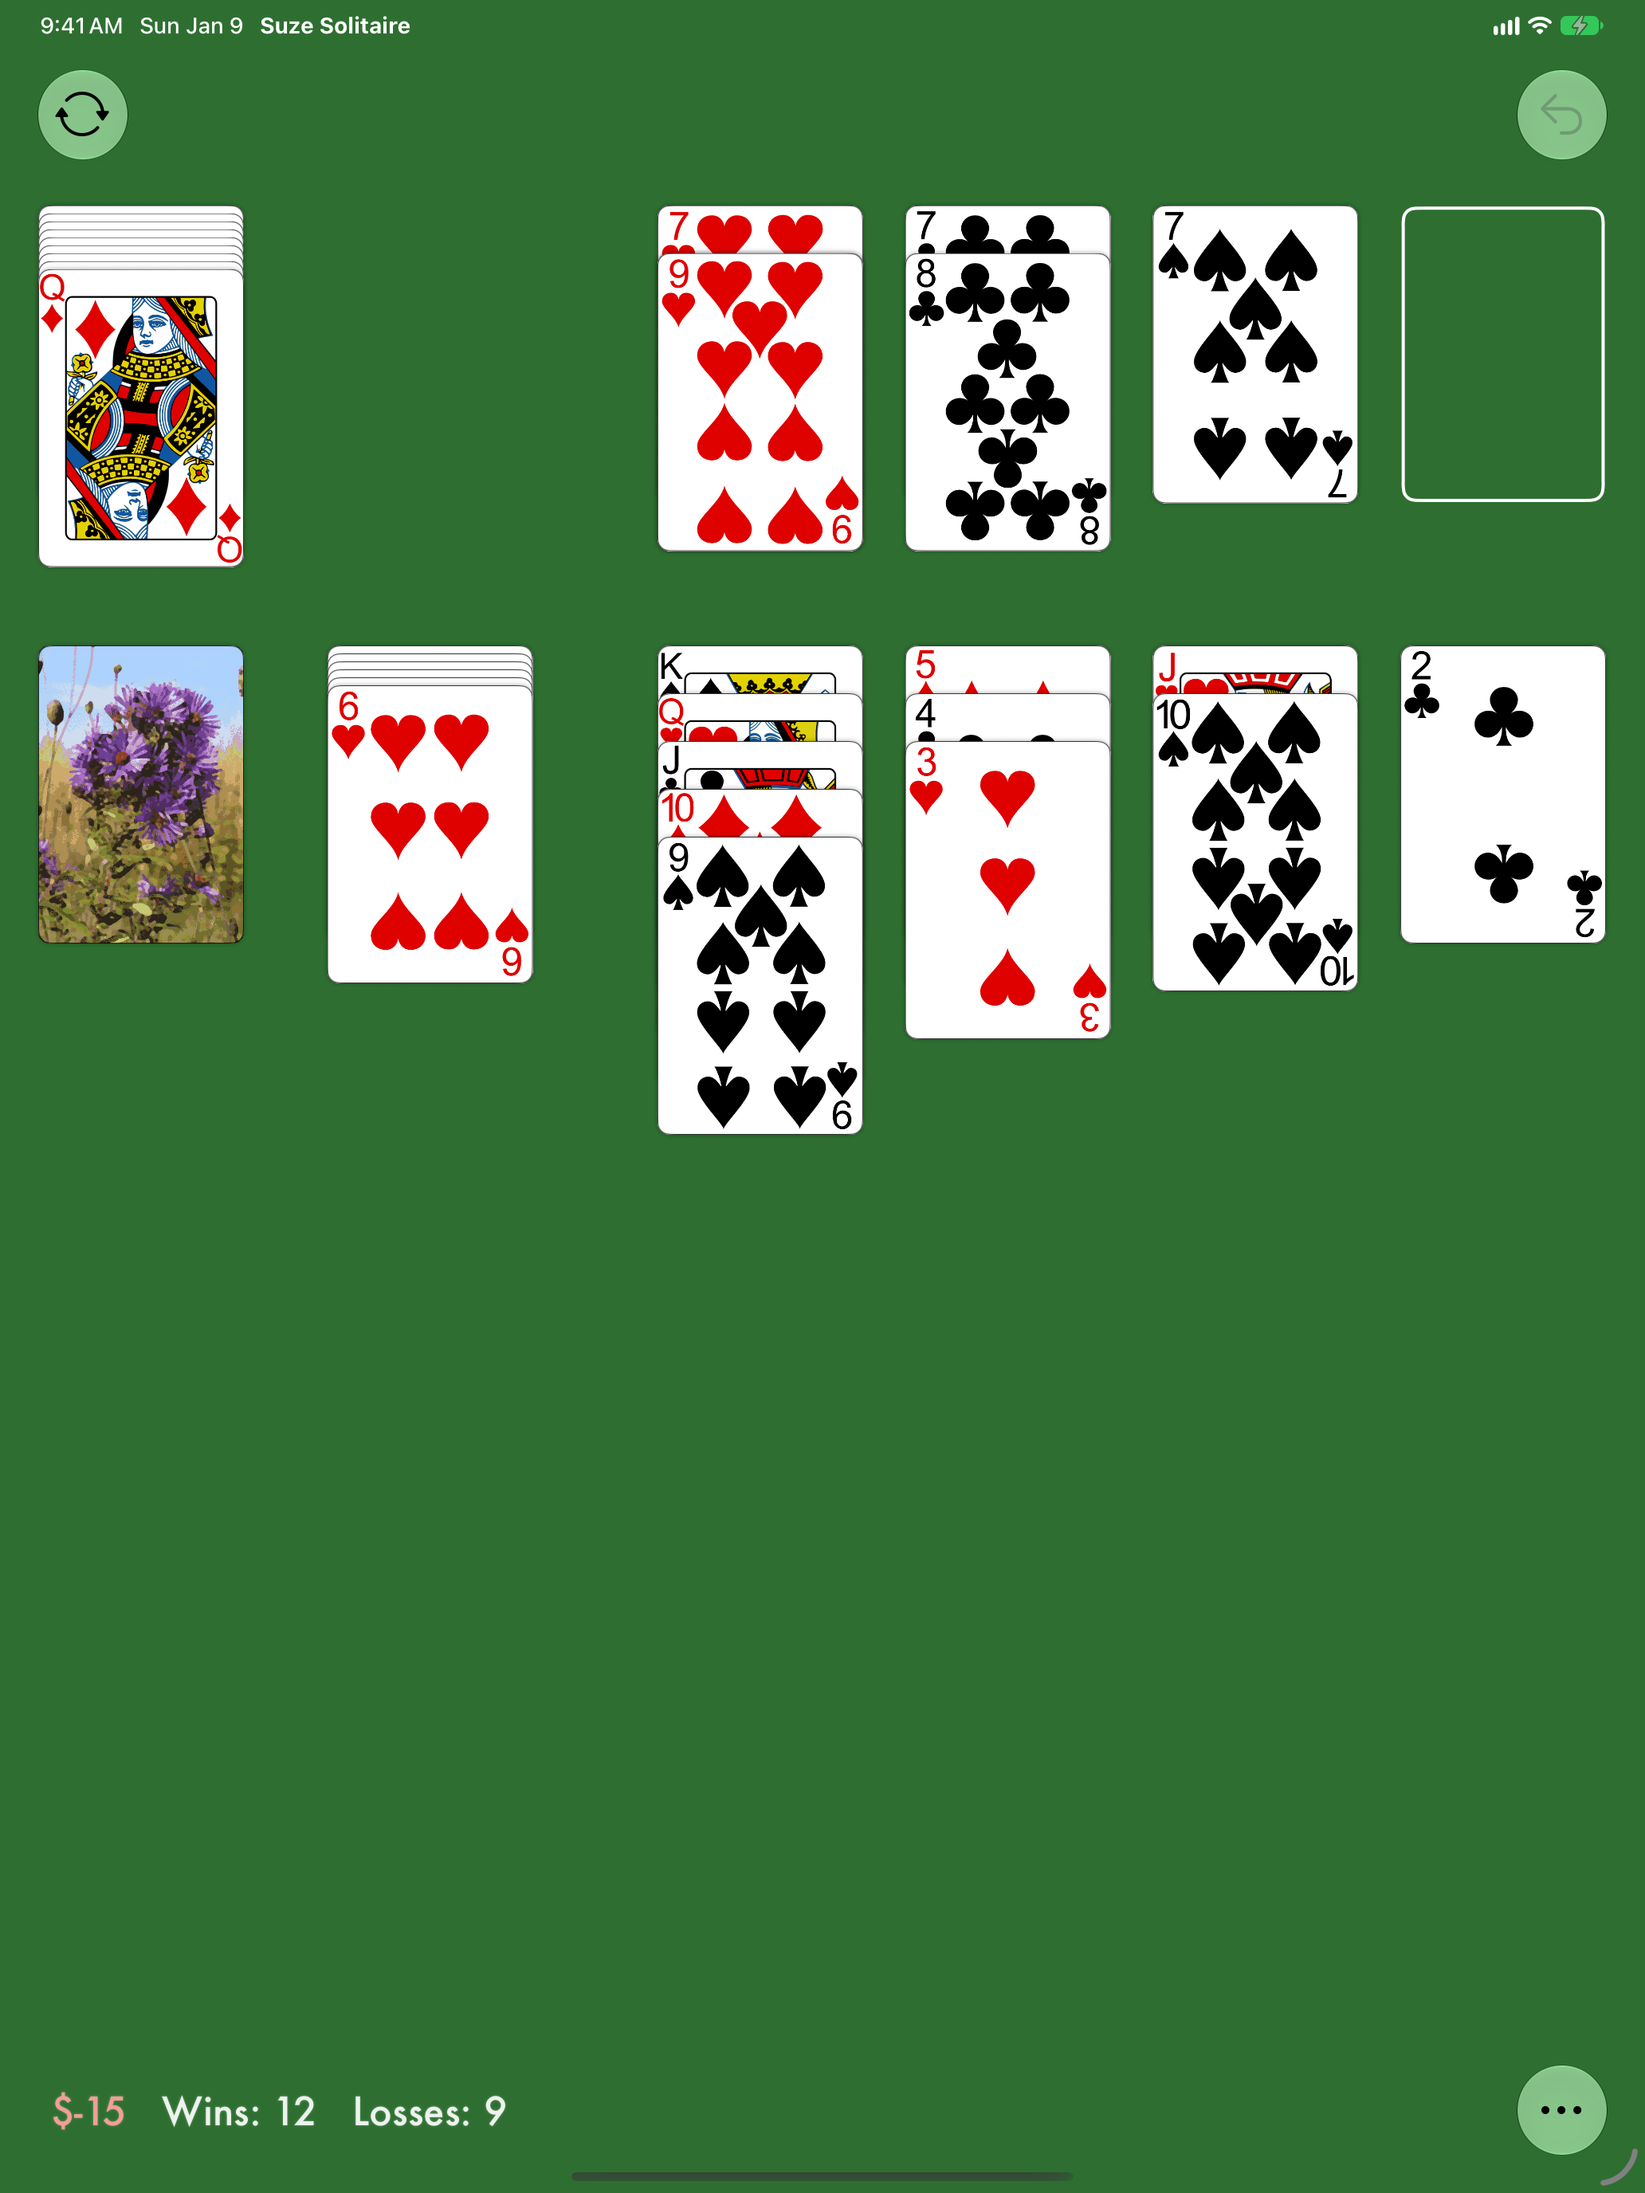
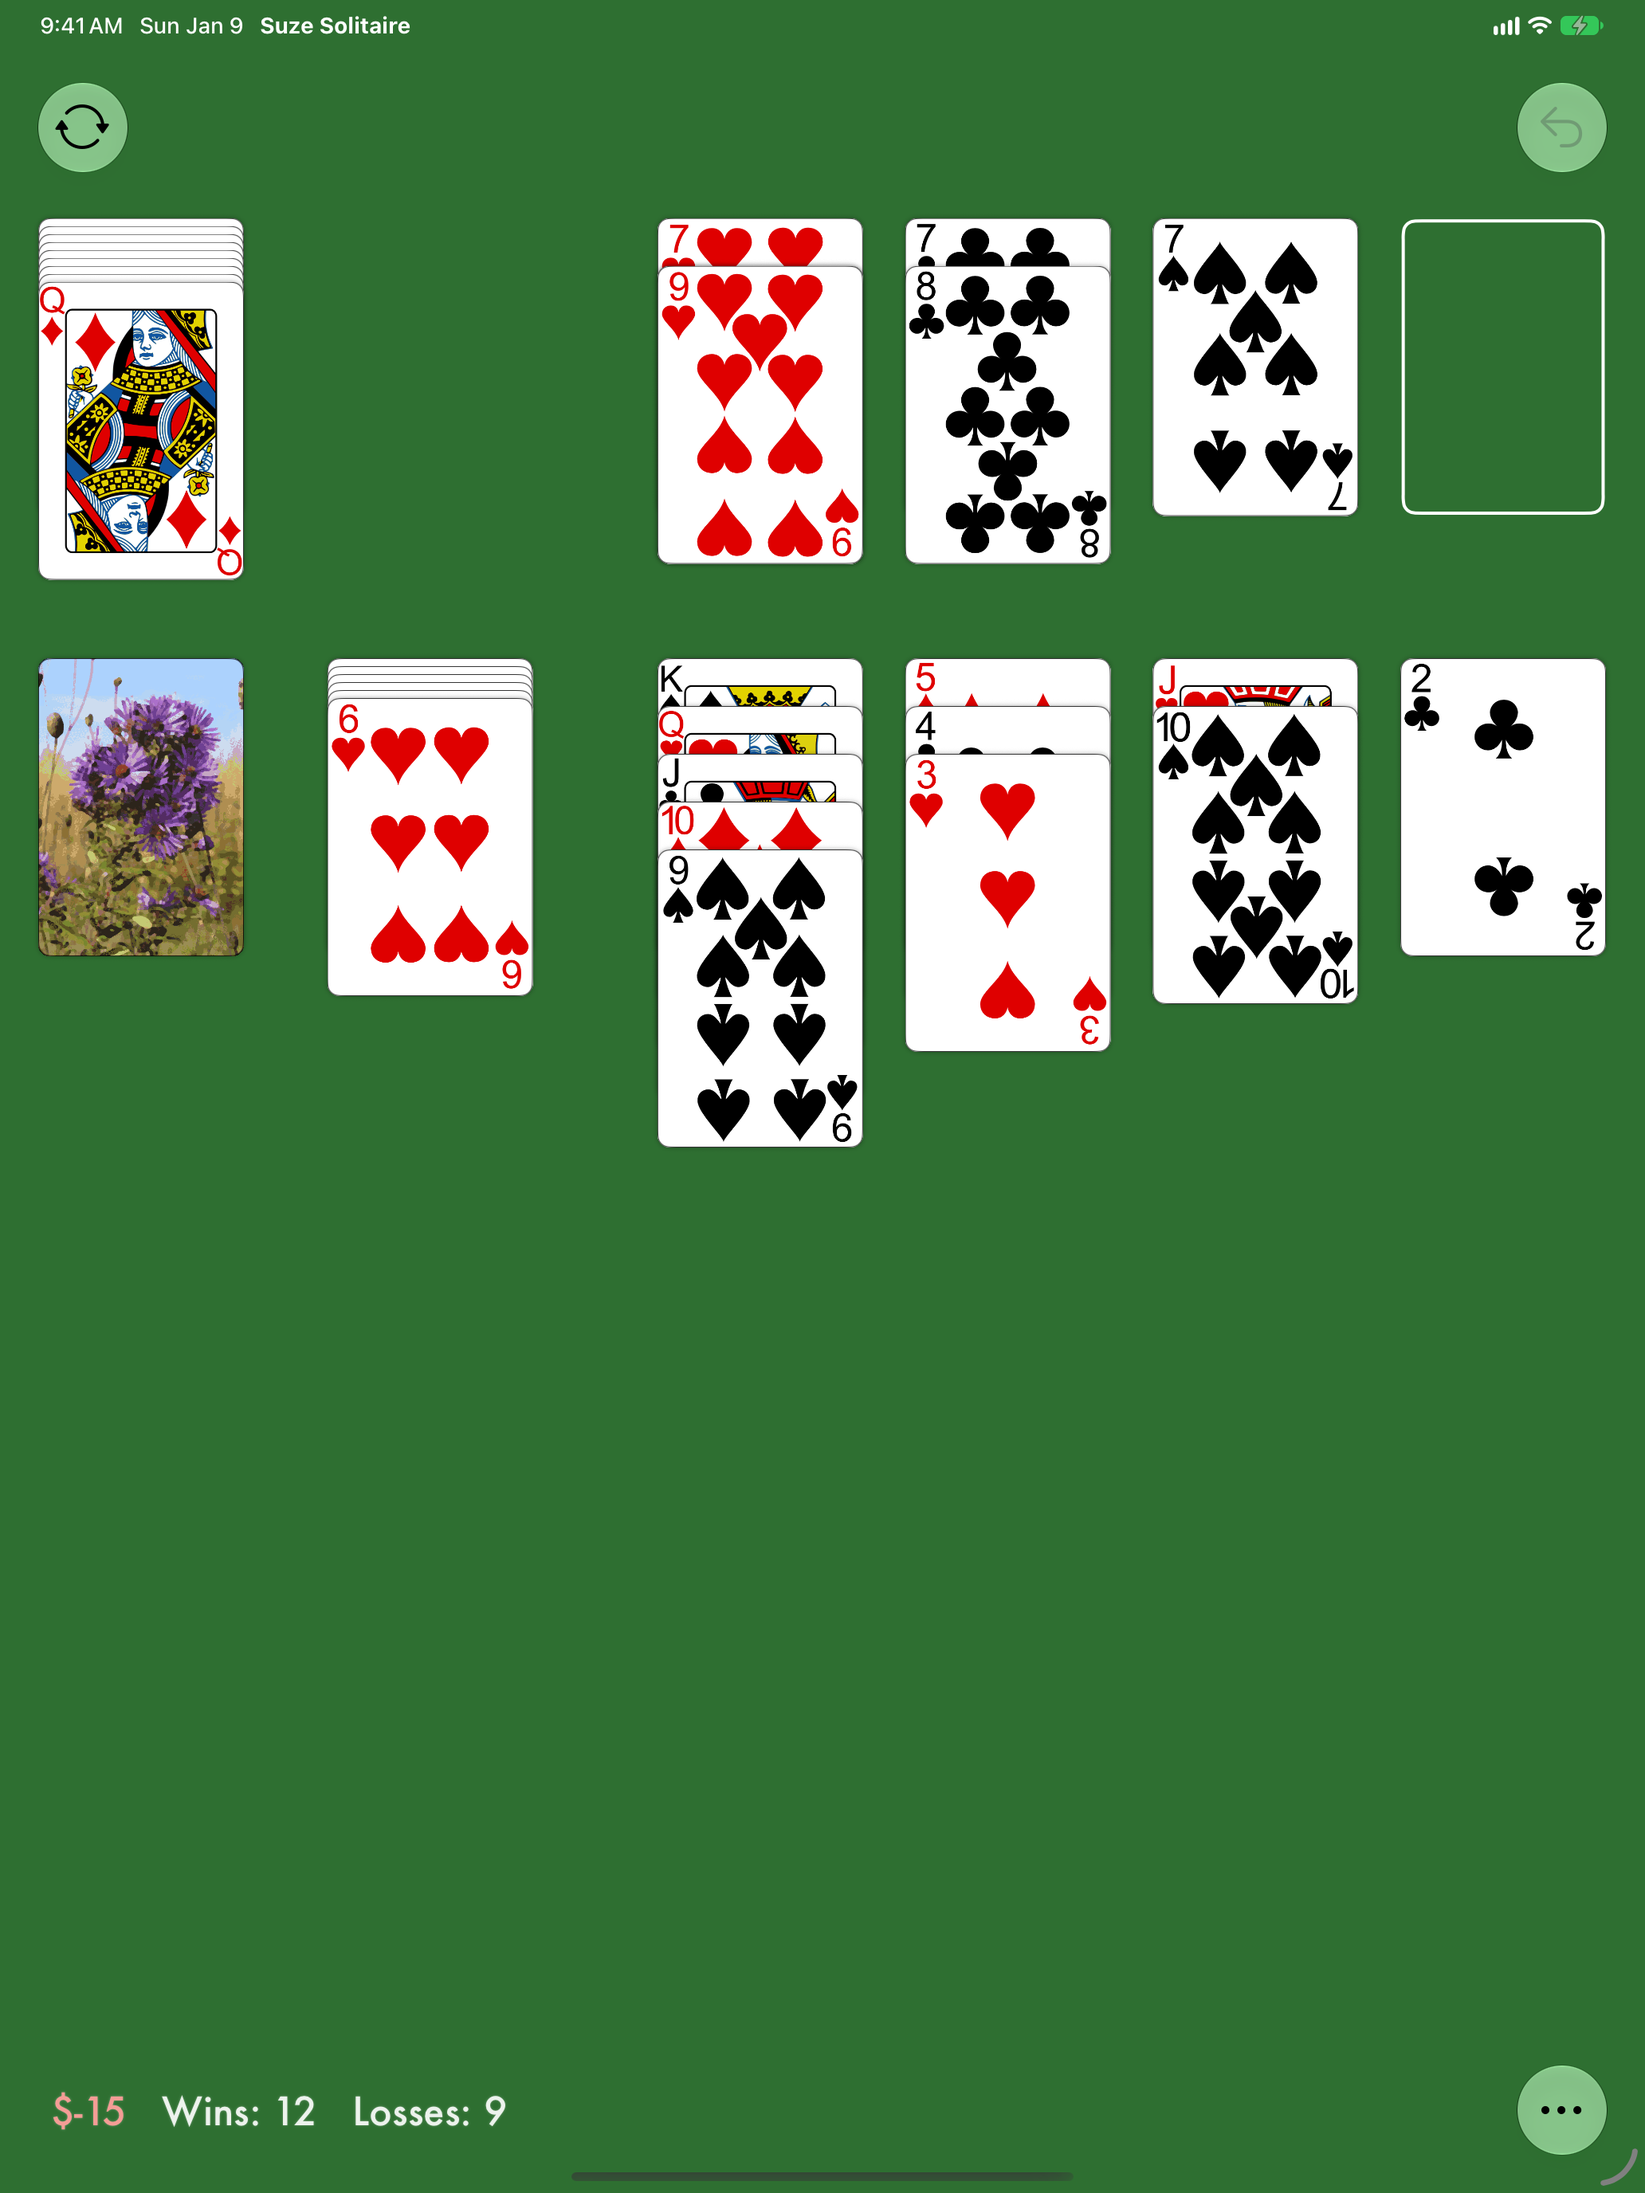
Give the top buttons more room under the status bar in portrait
New Game and Undo sit 16 points lower on iPhone and 8 points lower on iPad in portrait, clear of the status bar's
back link (such as "◀ TestFlight"), with the cards following them down.  Landscape is unchanged.  The App Store
screenshots are regenerated to match.

Claude-Session: https://claude.ai/code/session_01CE1d5xP9GvDtiA7Rei4bWG

diff --git a/Suze Solitaire/ViewController+Controls.swift b/Suze Solitaire/ViewController+Controls.swift
@@ -94,12 +94,14 @@ extension ViewController {
             chalkRight = bounds.width - safe.right - 16
         }
         else {
-            // Where the navigation bar would put its buttons: just under the status bar, or 24 points from the top without
-            // one, and 24 points into the margin beside the Dynamic Island or notch.  The bigger table gets more room.
+            // Under the status bar, or 24 points from the top without one, and 24 points into the margin beside the
+            // Dynamic Island or notch.  In portrait they sit a little further down, clear of the status bar's back link
+            // (such as "◀ TestFlight"), and the bigger table gets more room.
             let size  = self.cornerButtonSize
             let roomy = self.roomyTable
             let statusBar = self.view.window?.windowScene?.statusBarManager?.statusBarFrame.height ?? 0
-            let top   = max(statusBar, 24) + (roomy ? 12 : 0)
+            let gap: CGFloat = self.isLandscape ? (roomy ? 12 : 0) : (roomy ? 20 : 16)
+            let top   = max(statusBar, 24) + gap
             let margin = roomy ? 24 : 16 as CGFloat
             let left  = max(margin, safe.left - 24)
             let right = bounds.width - max(margin, safe.right - 24)
